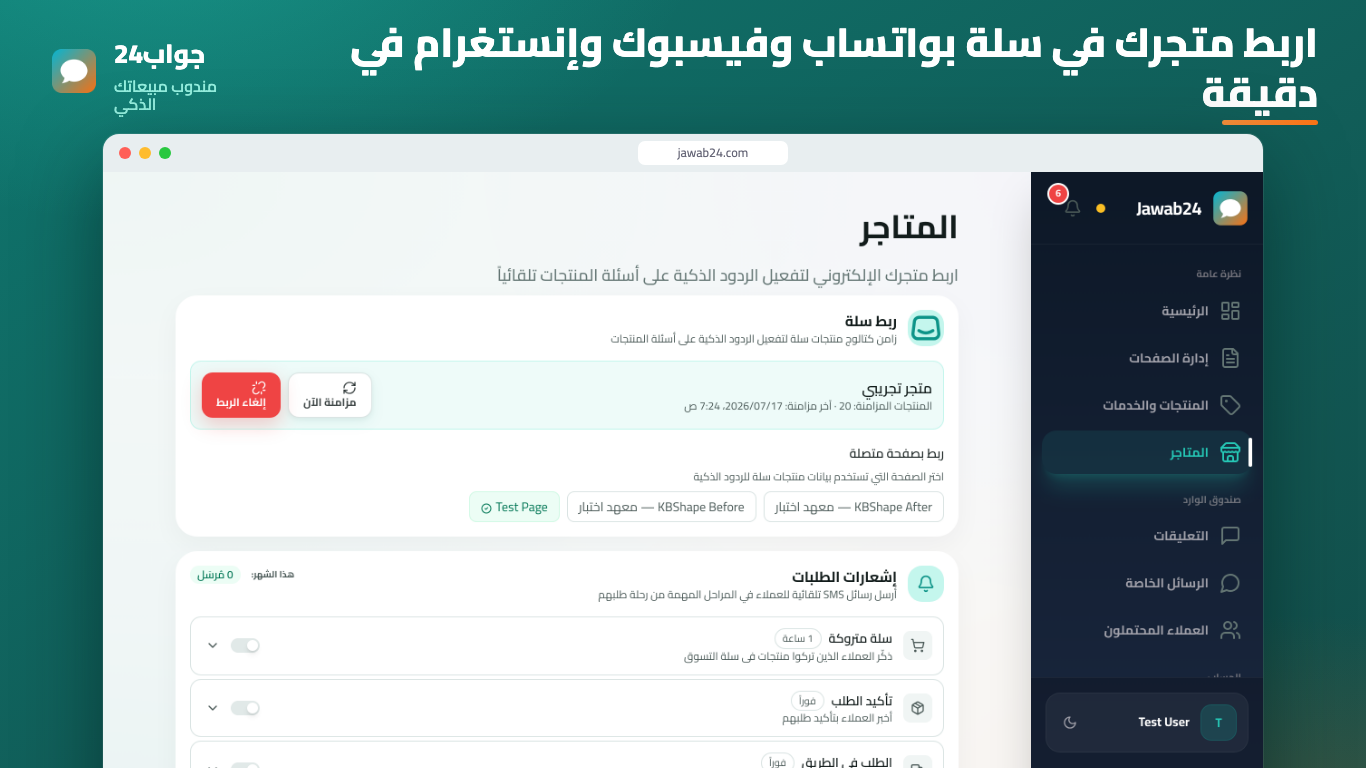
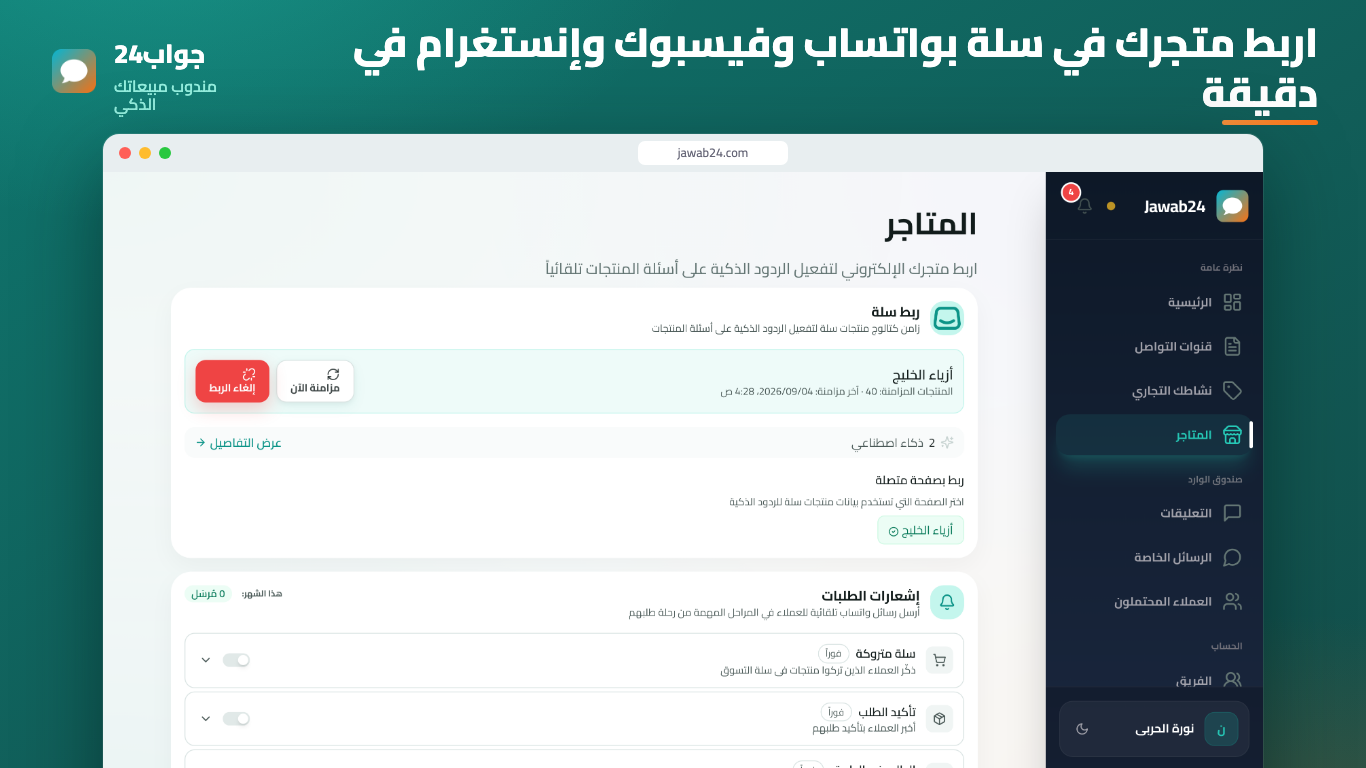
docs(salla): re-shoot the listing gallery and make the shoot reproducible
The owner asked (2026-09-03) for screenshots with realistic names instead of the
dev fixtures — «Test User», «Test Page», «متجر تجريبي». `node render.js` could
not deliver that: the 2026-07-18 shoot was framed over `raw-*.png` captures that
were never committed, so the app screenshots underneath the frames were gone and
the shoot had to be rebuilt from nothing.

So the shoot is now a script in the repo and the raws are committed beside it.
`sources/capture.js` resets a throwaway database, does a real demo login, prunes
to ONE Salla merchant via `sources/stage.sh`, refreshes the client's auth
snapshot from the server's own /auth/me, and shoots three screens. Nothing is
mocked or drawn: the pages render real API responses, and gallery-2's answer is
a genuine pipeline reply quoting the synced catalog's real price.

The shots now show «أزياء الخليج» — a Salla store with 40 synced products,
owned by «نورة الحربي» — all of it the demo seeder's own fixture data pruned to
a single store. No real customer, page or merchant appears.

Three traps are written into the script and the README, each of which cost a
capture round: `plans` is reference data that must survive the reset (without it
the reply tester answers «تم الوصول للحد الشهري» instead of quoting a product);
a `demo_`-prefixed facebook_id makes the sidebar print «مستخدم تجريبي» however
the row is named; and capturing wider than 1366×768 scales the UI down into the
frame until the text is unreadable.
[…]

diff --git a/docs/store-listing/salla/sources/capture.js b/docs/store-listing/salla/sources/capture.js
@@ -1,0 +1,124 @@
+/*
+ * Capture the three raw app screenshots for the Salla App Store gallery.
+ *
+ * WHY THIS FILE EXISTS
+ * --------------------
+ * The 2026-07-18 gallery was rendered from `raw-*.png` files that were never
+ * committed. When the owner asked for a re-shoot with realistic names on
+ * 2026-09-03, `node render.js` could not help — the app captures underneath the
+ * frames were gone, and the shoot had to be rebuilt from nothing. So the capture
+ * itself is now a script in the repo, and the raws are committed beside it.
+ *
+ * WHAT IT DOES
+ *   reset the scratch database → demo login (which seeds) → prune to ONE Salla
+ *   merchant → refresh the client's auth snapshot from the server's own /auth/me
+ *   → shoot three screens.
+ *
+ * The login is a real login, so the session cookies are real signed cookies —
+ * nothing is forged, and every pixel is the app rendering real API responses.
+ * The `merchant` staging step edits DATA in a throwaway database; it does not
+ * touch the DOM.
+ *
+ * PREREQUISITES
+ *   1. A scratch database, migrated and with plans seeded:
+ *        createdb jawab24_salla_shots
+ *        cd backend && DATABASE_URL=<scratch> npx tsx src/migrate.ts
+ *        cd backend && DATABASE_URL=<scratch> npx tsx src/scripts/seed-plans.ts
+ *   2. The worktree stack running against it (ports are the Rule 18 worktree band):
+ *        backend    PORT=3200 AI_SERVICE_URL=http://localhost:3202 DATABASE_URL=<scratch>
+ *        ai-worker  PORT=3202
+ *        frontend   NEXT_PUBLIC_API_URL=http://localhost:3200 npm run dev -- -p 3201
+ *      The ai-worker must be up: gallery-2 is a REAL model reply, not a mock.
+ *   3. DEMO_MODE_ENABLED=true in backend/.env (it is, in the checked-in dev env).
+ *
+ * RUN
+ *   node docs/store-listing/salla/sources/capture.js
+ *   node docs/store-listing/salla/sources/render.js     # frames the raws
+ *   cp sources/gallery-*.png ..                          # publish
+ *
+ * Override SHOT_BASE / SHOT_API / SHOT_DATABASE_URL if your ports differ.
+ */
+const path = require('path');
+const { execFileSync } = require('child_process');
+
+const REPO = path.resolve(__dirname, '../../../..');
+const { chromium } = require(path.join(REPO, 'node_modules/playwright'));
+
+const BASE = process.env.SHOT_BASE || 'http://localhost:3201';
+const API = process.env.SHOT_API || 'http://localhost:3200';
+const OUT = __dirname;
+const STAGE = path.join(__dirname, 'stage.sh');
+
+const stage = (arg) => console.log(execFileSync('bash', [STAGE, arg], { encoding: 'utf-8' }).trim());
+
+/** Dev-server chrome is not product UI. */
+const HIDE = 'nextjs-portal, [data-nextjs-toast] { display: none !important; }';
+
+async function main() {
+  stage('reset');
+
+  const browser = await chromium.launch();
+  const context = await browser.newContext({
+    // 1366x768 is the gallery frame's own aspect AND a real laptop size. Captured
+    // any wider, the app UI is scaled down into the frame's 1160px window and the
+    // text reads tiny — that is what a 1600px first attempt produced.
+    viewport: { width: 1366, height: 768 },
+    deviceScaleFactor: 2.5,
+    locale: 'ar',
+  });
+  const page = await context.newPage();
+
+  await page.goto(`${BASE}/ar/login`, { waitUntil: 'domcontentloaded' });
+  await page.locator('button', { hasText: 'الوضع التجريبي' }).first().click();
+  await page.waitForURL('**/dashboard', { timeout: 120000 });
+  await page.waitForTimeout(3000);
+
+  stage('merchant');
+
+  // The login snapshot in localStorage is now stale — zustand persists `user` and
+  // does NOT re-read it on navigation. Refresh it from the server's own /auth/me
+  // rather than hand-writing values: the store then holds exactly what the API says.
+  await page.evaluate(async (api) => {
+    const me = await (await fetch(`${api}/auth/me`, { credentials: 'include' })).json();
+    const ws = await (await fetch(`${api}/workspaces`, { credentials: 'include' })).json();
+    localStorage.setItem('auth-storage', JSON.stringify({
+      state: { user: me, isAuthenticated: true, workspaces: ws, activeWorkspaceId: ws[0]?.id ?? null, _hasHydrated: true },
+      version: 0,
+    }));
+  }, API);
+
+  const shot = async (name, url, prepare) => {
+    await page.goto(`${BASE}${url}`, { waitUntil: 'networkidle' });
+    await page.addStyleTag({ content: HIDE });
+    await page.waitForTimeout(1500);
+    if (prepare) await prepare(page);
+    await page.evaluate(() => document.fonts.ready);
+    await page.waitForTimeout(400);
+    await page.screenshot({ path: path.join(OUT, name) });
+    console.log('captured', name);
+  };
+
+  await shot('raw-stores.png', '/ar/integrations');
+
+  await shot('raw-comments.png', '/ar/comments', async (p) => {
+    // Land on the auto-replied tab: the caption is «يرد على تعليقات فيسبوك وإنستغرام
+    // تلقائياً», so the shot must show replies, not a backlog of unanswered comments.
+    await p.locator('button', { hasText: 'تم الرد تلقائياً' }).first().click();
+    await p.waitForTimeout(1500);
+  });
+
+  await shot('raw-testreply.png', '/ar/pages', async (p) => {
+    await p.locator('button', { hasText: 'اختبار الرد الذكي' }).first().click();
+    await p.waitForTimeout(1500);
+    const box = p.locator('textarea').last();
+    await box.fill('السلام عليكم، كم سعر العباية السوداء؟ وهل متوفر مقاس M؟');
+    await p.keyboard.press('Enter');
+    // A real OpenAI round trip through the local ai-worker (~4 s observed; the wait
+    // is generous because a cold worker is slower than a warm one).
+    await p.waitForTimeout(20000);
+  });
+
+  await browser.close();
+}
+
+main().catch((e) => { console.error(e); process.exit(1); });

diff --git a/docs/store-listing/salla/README.md b/docs/store-listing/salla/README.md
@@ -1,78 +1,119 @@
-# Salla App Store — DRAFT listing assets (Jawab24)
+# Salla App Store — listing assets (Jawab24)
 
-> **Repo copy** (moved from the session scratchpad 2026-07-18). Final PNGs live here;
-> HTML/CSS sources + fonts in `sources/` — re-render with `cd sources && node render.js`
-> (PNGs land in `sources/`, move them up one level). `raw-*.png` originals were not
-> carried over. Captions name واتساب/فيسبوك/إنستغرام (2026-07-18 Mando competitive pass).
+> **Re-shot 2026-09-04** on the owner's 2026-09-03 decision to replace the dev-fixture
+> names («Test User», «Test Page», «متجر تجريبي») with a realistic merchant. The whole
+> shoot is now reproducible from this folder — see **How to re-shoot** below.
 
-Produced 2026-07-18 for founder review. All sizes match Salla's confirmed specs
-(`.planning/SALLA_LAUNCH_ACTIONS.md` §3): icon 512×512 ≤1 MB, 3 App Gallery images
-1366×768, 3 Key Benefits images 1600×1600.
+All sizes match Salla's confirmed specs (`.planning/SALLA_LAUNCH_ACTIONS.md` §3):
+icon 512×512 ≤1 MB, 3 App Gallery images 1366×768, 3 Key Benefits images 1600×1600.
 
-## How they were made
+## How to re-shoot (the whole point of this section)
 
-- The **gallery screenshots are the REAL app UI** — the local dev stack
-  (frontend :3001 / backend :3000) rendered in Arabic (`/ar/...`, RTL, light mode),
-  captured with Playwright Chromium at deviceScaleFactor 2, authenticated as the local
-  test user whose workspace has a **real connected Salla dev store (متجر تجريبي, 20
-  synced products, SAR prices)**.
-- The AI reply in gallery-2 is a **genuine reply from the live pipeline** (the test
-  Smart-Reply modal called the real backend + AI worker; it quotes the store's actual
-  dress price of 83/94 SAR from the synced Salla catalog).
-- Each screenshot is framed on a brand-teal marketing canvas (brand tokens from
-  `frontend/src/styles/globals.css`, Cairo font from `frontend/public/fonts`) with an
-  Arabic caption from the approved shot-list copy in `SALLA_LISTING_BRIEF.md` §4.
+The 2026-07-18 shoot was rendered from `raw-*.png` captures that were **never
+committed**. When the re-shoot was ordered, `node render.js` was useless — the app
+captures underneath the frames were gone and the shoot had to be rebuilt from nothing.
+So now: the capture is a script, and **the raws are committed**.
 
-## Files
+```bash
+# 1. a scratch database — never the dev database, never production
+createdb jawab24_salla_shots
+cd backend
+DATABASE_URL=postgresql://$USER@127.0.0.1:5432/jawab24_salla_shots npx tsx src/migrate.ts
+DATABASE_URL=postgresql://$USER@127.0.0.1:5432/jawab24_salla_shots npx tsx src/scripts/seed-plans.ts
+
+# 2. the worktree stack against it (Rule 18 port band; the ai-worker MUST be up —
+#    gallery-2 is a real model reply)
+cd backend    && PORT=3200 AI_SERVICE_URL=http://localhost:3202 \
+                 DATABASE_URL=postgresql://$USER@127.0.0.1:5432/jawab24_salla_shots npx tsx src/index.ts
+cd ai-worker  && PORT=3202 npx tsx src/index.ts
+cd frontend   && NEXT_PUBLIC_API_URL=http://localhost:3200 npm run dev -- -p 3201
+
+# 3. shoot, frame, publish
+node docs/store-listing/salla/sources/capture.js
+node docs/store-listing/salla/sources/render.js
+cp docs/store-listing/salla/sources/{gallery,benefit}-*.png docs/store-listing/salla/sources/icon-512.png docs/store-listing/salla/
+rm  docs/store-listing/salla/sources/{gallery,benefit}-*.png docs/store-listing/salla/sources/icon-512.png
+```
+
+`capture.js` resets the scratch database, does a real demo login (which seeds), prunes
+to one Salla merchant via `stage.sh merchant`, refreshes the client's auth snapshot from
+the server's own `/auth/me`, and shoots. Traps it already carries, each of which cost a
+round on 2026-09-04:
+
+- ⛔ **Do not truncate `plans`.** It is reference data seeded by
+  `backend/src/scripts/seed-plans.ts`, not by a migration. Without it the account is on
+  no plan and the reply tester answers «تم الوصول للحد الشهري للردود الذكية» instead of
+  quoting a product. `stage.sh reset` excludes it.
+- ⛔ **A demo-shaped account cannot produce a merchant-shaped screenshot.** The sidebar
+  substitutes «مستخدم تجريبي» for any `facebook_id` starting with `demo_`
+  (`Sidebar.tsx` → `useIsDemoUser`) and the demo banner keys off the same check —
+  renaming the row is not enough, the id has to change. `stage.sh merchant` does both.
+- ⛔ **Capture at 1366×768**, the frame's own aspect. Wider captures are scaled down into
+  the frame's 1160 px window and the UI text reads tiny.
+- The zustand auth store persists `user` and does **not** re-read it on navigation, so a
+  DB edit after login is invisible until the snapshot is refreshed.
+
+## What is in the shots (2026-09-04)
+
+One merchant: **«أزياء الخليج»**, a Salla store with **40 synced products** (SAR prices),
+linked to one Facebook/Instagram page of the same name. Account owner «نورة الحربي».
+All of it is the demo seeder's own fixture data (`backend/src/plugins/demo/seedData.ts`),
+pruned to a single store — no real customer, page or merchant appears anywhere.
 
 | File | Size | Shows |
 |---|---|---|
-| `gallery-1.png` | 1366×768 | **المتاجر page** — Salla connected card («ربط سلة»), متجر تجريبي with «المنتجات المزامنة: 20» + last-sync time, page-link chips (Test Page linked), order-notification toggles below. Caption: «اربط متجرك في سلة بصفحاتك في دقيقة». |
-| `gallery-2.png` | 1366×768 | **اختبار الرد الذكي modal** — customer asks «كم سعر الفستان؟ وهل هو متوفر حالياً؟» and the AI answers with the real price (83 ريال سعودي), the real size range (XS–XL) and stock state, tagged «رد ذكي». Caption: «الذكاء الاصطناعي يقرأ منتجاتك وأسعارك مباشرة». |
-| `gallery-3.png` | 1366×768 | **التعليقات page** — auto-replied filter with three Arabic comment→Smart-Reply cards (price question answered «94 ريال», availability, shipping to جدة). Caption: «يرد على تعليقات فيسبوك وإنستغرام تلقائياً». |
-| `benefit-1.png` | 1600×1600 | Catalog awareness card — product chip (فستان · 94 ر.س · XS–XL) + «مزامنة تلقائية من متجرك في سلة» + a Q&A bubble pair. |
-| `benefit-2.png` | 1600×1600 | Arabic-first card — two dialect exchanges (خليجي «بكم الجاكيت؟…», مصري «عايزة أعرف المقاسات…») each answered by a Smart Reply. |
-| `benefit-3.png` | 1600×1600 | Three channels card — WhatsApp/Facebook/Instagram chips flowing into one Jawab24 hub («كل رسائلك وتعليقاتك في مكان واحد»). |
-| `icon-512.png` | 512×512, 58 KB | Existing brand mark (`frontend/public/brand/icon-vector.svg`) re-framed: symbol only, no text, transparent background, 40 px margin all sides, centered. |
+| `gallery-1.png` | 1366×768 | **المتاجر** — «ربط سلة» card, «أزياء الخليج» with «المنتجات المزامنة: 40» and the last-sync time, the linked-page chip, order-notification toggles below (WhatsApp — the SMS rail was retired, D-123). Caption: «اربط متجرك في سلة بواتساب وفيسبوك وإنستغرام في دقيقة». |
+| `gallery-2.png` | 1366×768 | **اختبار الرد الذكي** — «كم سعر العباية السوداء؟ وهل متوفر مقاس M؟» answered «سعر العباية الكلاسيك السوداء هو 450 ريال، ومقاس M متوفر حالياً.», tagged «رد ذكي» with the real latency. A **genuine pipeline reply**, not staged: the modal called the local backend + ai-worker and the price comes from the synced Salla catalog. |
+| `gallery-3.png` | 1366×768 | **التعليقات**, auto-replied filter — Arabic and English comment→Smart-Reply pairs quoting real catalog prices (450/750 ريال) and shipping terms. |
+| `benefit-1.png` | 1600×1600 | Catalog awareness — product chip + «مزامنة تلقائية من متجرك في سلة» + a Q&A bubble pair. |
+| `benefit-2.png` | 1600×1600 | Arabic-first — two dialect exchanges (خليجي, مصري) each answered by a Smart Reply. |
+| `benefit-3.png` | 1600×1600 | Three channels — WhatsApp/Facebook/Instagram flowing into one Jawab24 hub. |
+| `icon-512.png` | 512×512 | The brand mark (`frontend/public/brand/icon-vector.svg`) re-framed: symbol only, transparent, centered. |
 | `benefits.md` | — | AR-primary + EN titles/descriptions to paste alongside each Key-Benefits image. |
-| `PORTAL_FIELD_MAP.md` | — | Which portal field takes which file/section, plus the decisions the drafts don't cover (sub-category, supported countries, pricing type, contact + service-trial gaps). |
-| `raw-*.png` | 2560×1440 | Unframed 2× app captures (kept in case a different frame is wanted). |
-| `*.html`, `frame.css`, `render.js`, `icon.html` | — | Sources; re-render everything with `node render.js`. |
+| `PORTAL_FIELD_MAP.md` | — | Which portal field takes which file/section, plus the decisions the drafts don't cover. |
+| `sources/raw-*.png` | 3415×1920 | The unframed app captures. **Committed** — see above for why. |
+| `sources/capture.js`, `sources/stage.sh` | — | The shoot itself. |
+| `sources/*.html`, `frame.css`, `render.js` | — | The marketing frames; Cairo embedded locally, no external requests. |
 
-## Compromises / notes for review
+## Two bugs the shoot found (both fixed in the same PR)
 
-1. **Workspace + page names are the dev fixtures** — the header shows “Test User /
-   Test Workspace”, the linked Facebook page is “Test Page”, and the Salla store is the
-   dev store «متجر تجريبي». Honest, but for the final shots the founder may prefer a
-   nicer-named staging workspace (e.g. a realistic store name) — re-shoot is one
-   `node render.js` after new raw captures.
-2. **Comment conversations are synthetic** (per the brief's hard rule: never screenshot
-   real customers). Three Arabic comment+reply pairs were seeded into the local dev DB
-   for the shot and **deleted afterwards**; replies were written to match the real
-   catalog prices (94/114 ريال). The AI reply in gallery-2, by contrast, is a live
-   pipeline response, not staged.
-3. gallery-2's modal backdrop dims the page behind it (that's the app's real UX); a
-   yellow «إعادة الربط مطلوبة» banner for a stale dev-store page connection sits behind
-   the modal but is fully covered on the final crop.
-4. gallery-1 was taken on the admin-gated Stores page (`/integrations`) — the page is
-   behind an admin-only client gate during rollout, but everything shown (Salla card,
-   sync, page linking, notifications) is the merchant-facing UI.
-5. The browser-window frame crops the bottom ~8% of each raw capture (window bleeds off
-   the canvas edge — intentional composition).
-6. **Icon**: Salla's earlier guidance said 1024×1024 in the brief but the confirmed spec
-   (launch-actions §1) is 512×512 ≤1 MB — delivered at 512×512 (58 KB), symbol-only, from
-   the existing mark. Nothing was redesigned.
-7. Fonts: Cairo (the app's own Arabic font) embedded locally from
-   `frontend/public/fonts` — no external requests anywhere.
-8. Copy rules honored: فصحى only in our overlay copy (dialect appears only inside
+A screenshot session is an unusually good bidi audit, because it forces you to read the
+Arabic UI as a stranger would.
+
+1. **`/integrations` printed the store's last-sync time backwards and in English.**
+   `toLocaleString(undefined, …)` formats in the *browser's* locale, and the formatted
+   date-time is several runs joined by neutrals, so in the RTL paragraph it painted
+   right-to-left. Fixed with the app locale + `<bdi>`, the same treatment
+   `BusinessFactRows` already uses.
+2. **A Latin auto-reply in the comments list painted its trailing punctuation on the
+   wrong side.** The incoming comment carried `dir="auto"` and the reply bubble did not
+   — `CommentDetailModal` already had it; only `CommentCard` was missing it.
+
+Both are visible in the *old* gallery images and absent from the new ones.
+
+## Notes for review
+
+1. **Comment conversations are the demo seeder's fixtures**, per the brief's hard rule:
+   never screenshot real customers. The replies were authored to match the catalog, and
+   the prices they quote (450/750 ريال) are the catalog's real ones.
+2. gallery-2's modal dims the page behind it — that is the app's real UX.
+3. gallery-1 is the Stores page (`/integrations`), which is behind an admin-only client
+   gate during rollout. Everything shown is merchant-facing UI; the gate is temporary and
+   tracked in `PORTAL_FIELD_MAP.md` §6, where the reviewer's own instructions deliberately
+   route around it via `/salla/onboarding`.
+4. The browser-window frame crops the bottom ~8% of each raw capture — intentional
+   composition, not a clipped screenshot.
+5. **Icon**: the confirmed spec (launch-actions §1) is 512×512 ≤1 MB. Delivered at
+   512×512, symbol-only, from the existing mark. Nothing was redesigned.
+6. Copy rules honored: فصحى only in our overlay copy (dialect appears only inside
    *customer* bubbles in benefit-2, which is the product's actual dialect-mirroring
-   behavior); «مندوب مبيعات» identity, no «وكيل», no transact verbs; «رد ذكي» labels come
+   behaviour); «مندوب مبيعات» identity, no «وكيل», no transact verbs; «رد ذكي» labels come
    from the product UI itself.
 
-## Repo / environment hygiene
+## Environment hygiene
 
-- No repo files were modified; the token-minting helper (`backend/mint-token-tmp.ts`)
-  was deleted after use, and the minted dev JWT file was removed.
-- Dev DB restored: the 3 seeded comments were deleted; the pre-existing English test
-  comment's flags were touched during the shoot and restored to their original values
-  (verified: `replied=t, reply_method=ai, needs_attention=t`).
+- The shoot runs entirely against the throwaway `jawab24_salla_shots` database on the
+  local dev Postgres. Production is not touched, and neither is the shared dev database —
+  `stage.sh` refuses any URL that does not name a `*_shots` database, because `reset`
+  truncates every application table.
+- No repo file is modified by the shoot; the only outputs are the PNGs.

diff --git a/docs/SALLA_SUBMISSION_RUNBOOK.md b/docs/SALLA_SUBMISSION_RUNBOOK.md
@@ -351,14 +351,32 @@ Summary of the gates:
 - [ ] Install onto a real store → token push → pending install → claim binds by owner-email
       match → products sync.
 - [ ] Test reply quotes a real product name **and price** from the live catalog.
-- [x] `order.created` → **exactly one** customer SMS. ✅ 2026-08-25 (confirmed admin order
-      `#279682567`; a Draft fires nothing — the Confirm dialog is what creates the order).
-- [x] `order.status.updated`(shipped) → one SMS row held for the 5-min grace, then sent.
-      ✅ 2026-08-24 + 2026-08-25. ⚠ The `order.shipment.created` half (tracking upgraded
-      **in place**, PR #411 design note) is NOT verifiable on a demo store — the label flow
+- [~] `order.created` → **exactly one** customer notification row. ✅ 2026-08-25 (confirmed admin
+      order `#279682567`; a Draft fires nothing — the Confirm dialog is what creates the order).
+      ⚠ **Proved on the SMS rail, which no longer exists — see the note below.**
+- [~] `order.status.updated`(shipped) → one row held for the 5-min grace, then sent.
+      ✅ 2026-08-24 + 2026-08-25. ⚠ Same rail caveat. The `order.shipment.created` half (tracking
+      upgraded **in place**, PR #411 design note) is NOT verifiable on a demo store — the label flow
       never emits the event and Dev Company assigns no tracking (`SALLA_TEST_PLAN.md`
       2026-08-25 results); pinned by unit tests, live pass deferred to the first
       real-courier store.
+
+> ⛔⭐ **Both order-notification rows above were proved against the Vonage SMS rail, retired
+> 2026-09-03 by D-123 / PR #1042. Do not read their ✅ as a green delivery gate.**
+> What still holds is the half those runs actually exercised on the Salla side and that #1042 did
+> not touch: `buildSallaOrderEvent` (`backend/src/controllers/salla.ts`) — one event per order, the
+> `salla:order_shipped:<order_id>` dedup key, the 5-minute `SHIPPED_NO_TRACKING_GRACE_MS` hold, and
+> the in-place tracking upgrade. That logic is rail-agnostic and unchanged.
+> What is **no longer proved** is delivery. WhatsApp is now the only customer channel:
+> `customerNotifications.ts` throws `channel_unsupported` on any row not on `whatsapp`, and a
+> WhatsApp send needs a linked number **and** a Meta-approved template on that workspace. The
+> review workspace has neither, so an end-to-end order notification is **not demonstrable on the
+> review store** before submitting.
+> Consequence: this is **not** a listing blocker. The only brief bullet that would have promised
+> order notifications — «تأكيد الطلبات وتذكير العملاء بالعربات المتروكة (قريباً)» — is already one
+> of the two `PORTAL_FIELD_MAP.md` §3 deletes, so nothing in the pasted copy claims it, and the
+> reviewer's Service Trial script never reaches this path. It IS a runbook honesty fix: re-run both
+> rows on the WhatsApp rail against the first real merchant store, not before.
 - [x] **`track_shipment` against a real shipped order** — ✅ PASSED 2026-08-24
       (see `SALLA_TEST_PLAN.md` 3.8): the shipments call returned 200
       with a parseable envelope; reply carried the courier (no tracking on the demo
